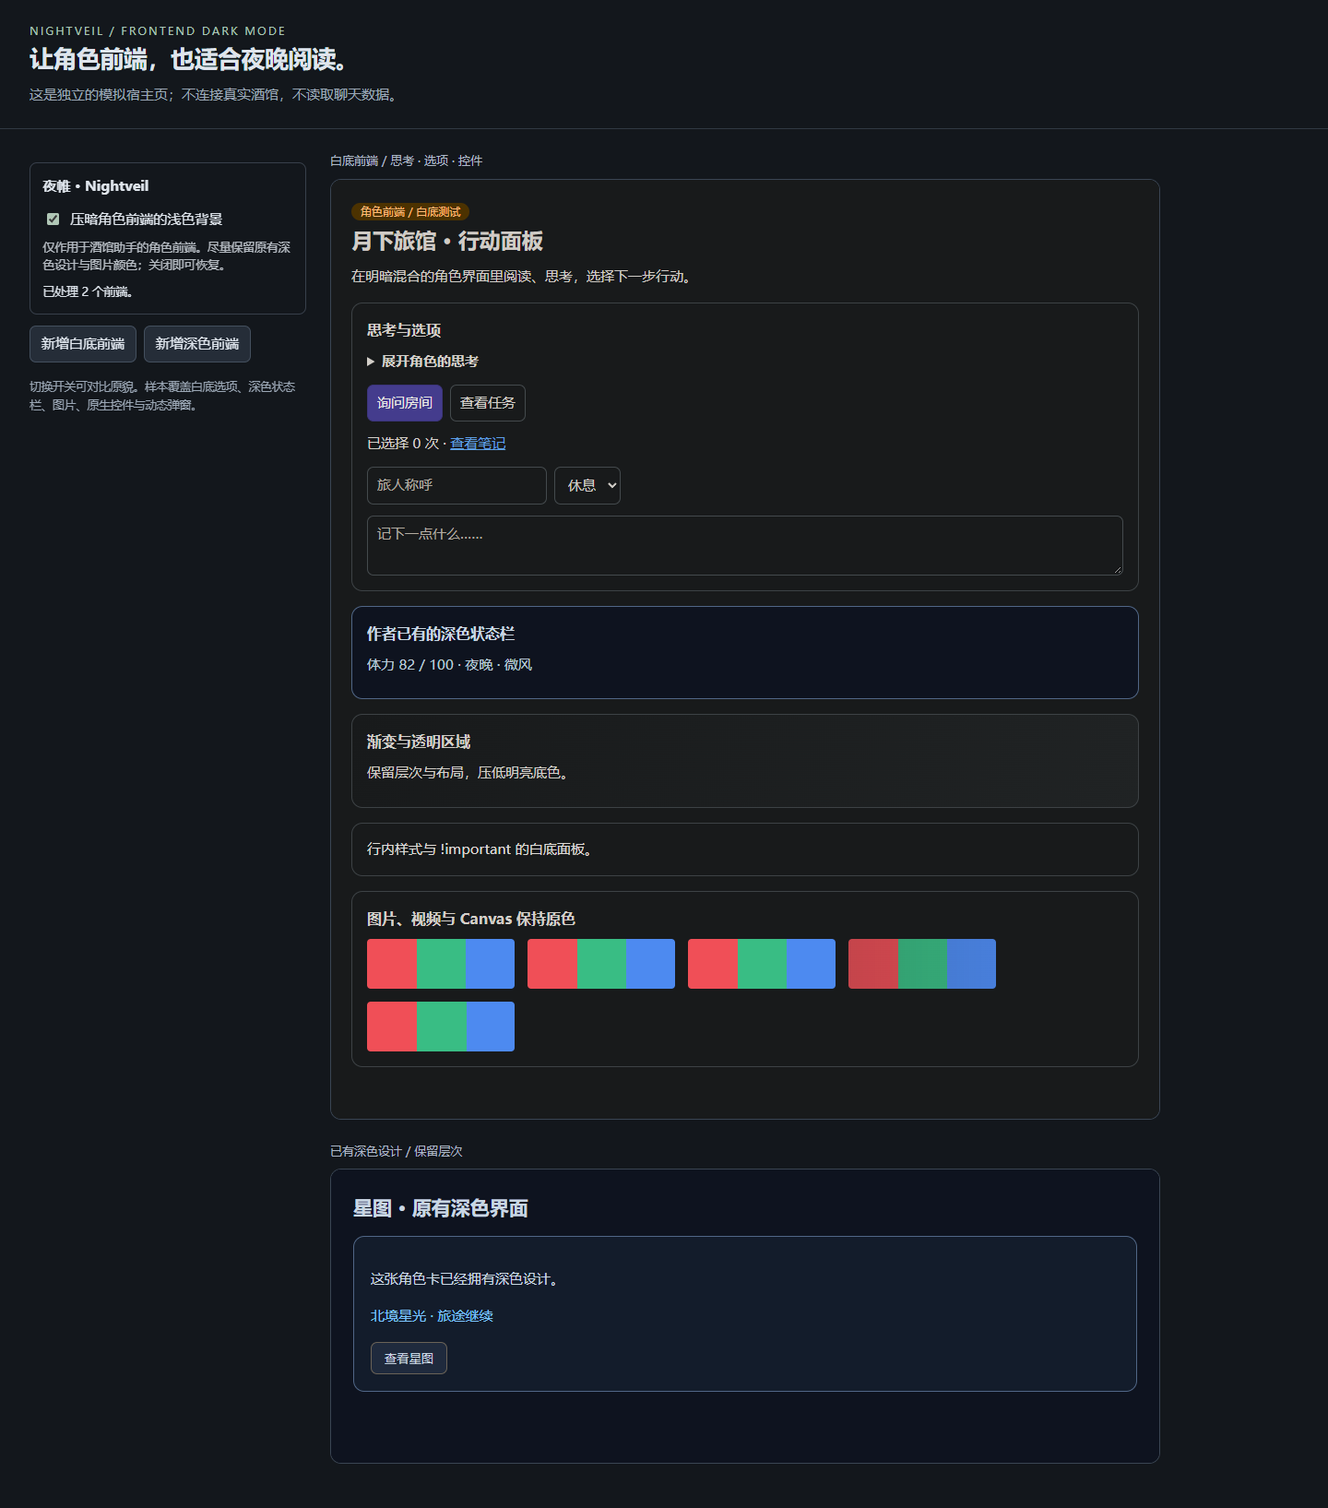
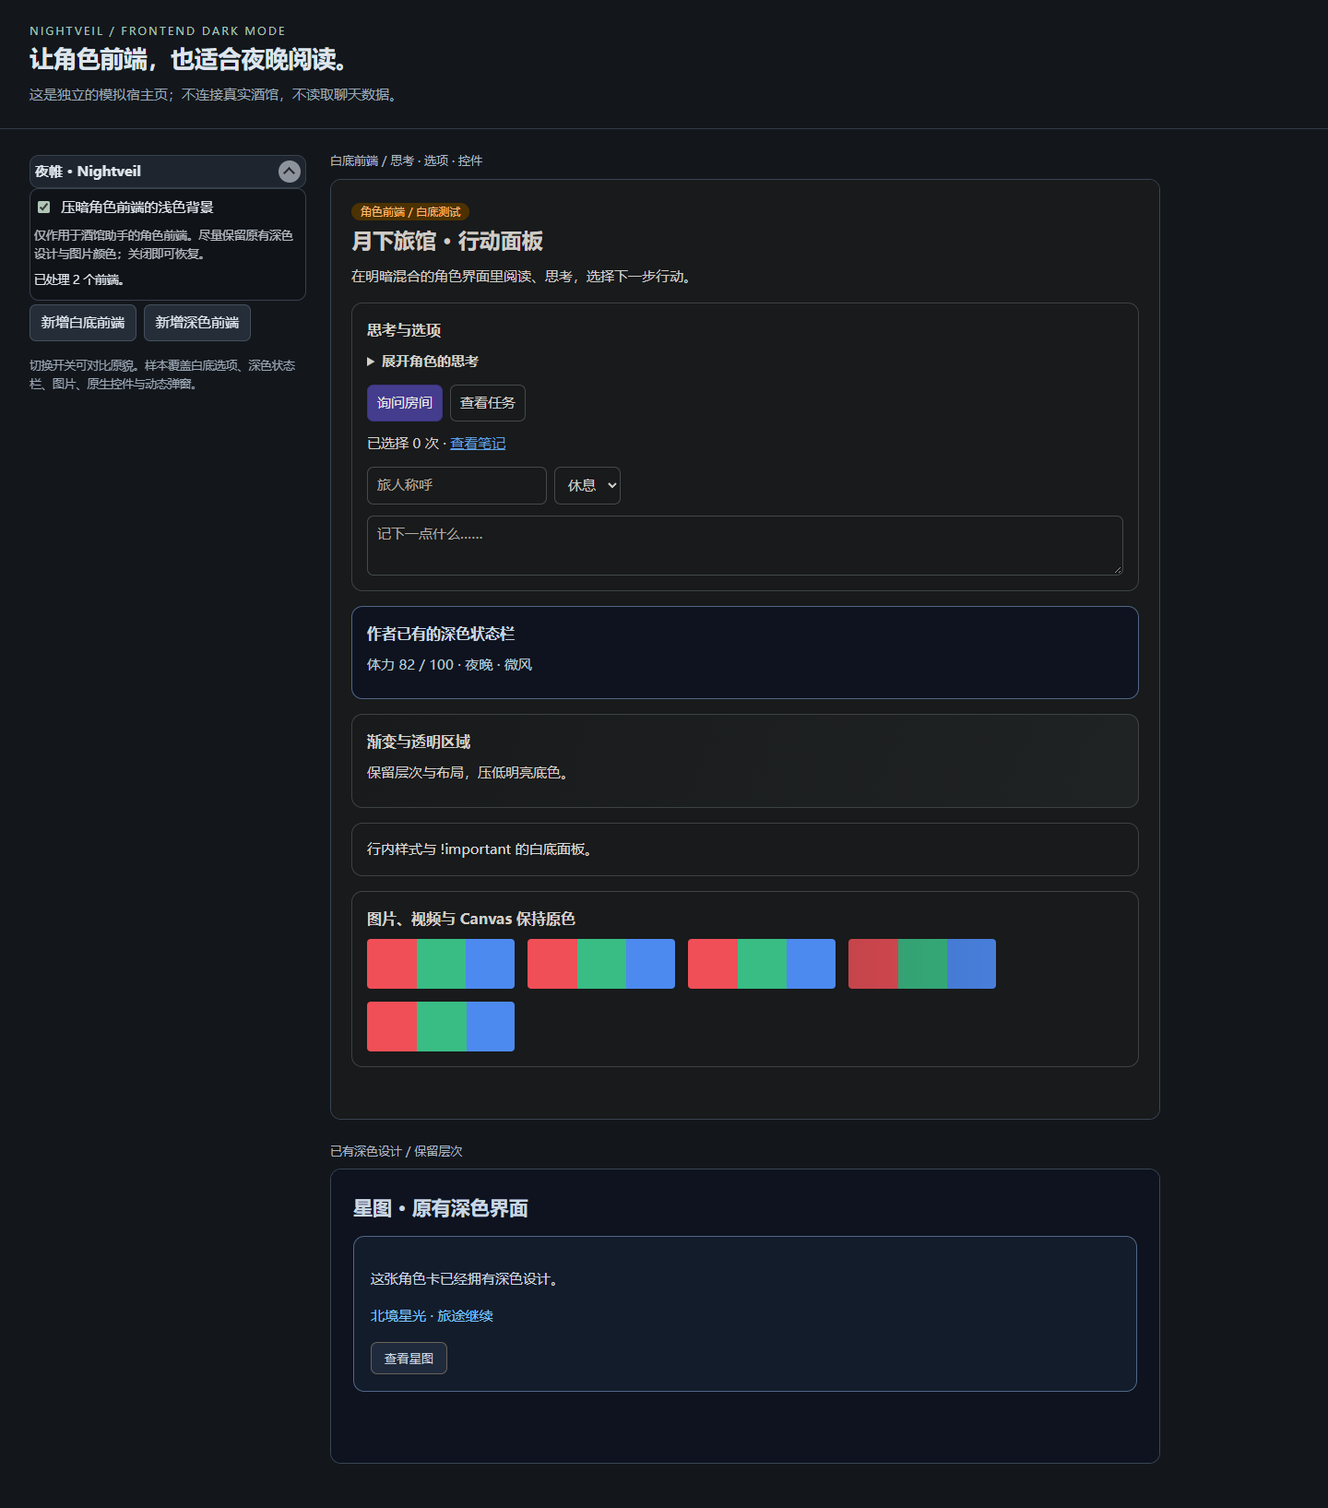
Collapse Nightveil settings by default in 0.1.3

Changed region(s): [[0.0, 0.0936, 0.2188, 0.2807], [0.1875, 0.0936, 0.25, 0.1248]]

diff --git a/tests/browser/extension.spec.js b/tests/browser/extension.spec.js
@@ -4,8 +4,14 @@ async function boot(page, query = '?empty=1') {
     await page.goto('/demo/' + query);
     await page.waitForFunction(() => window.demoReady);
     await page.evaluate(() => window.demoReady);
-    await expect(page.locator('#darksilly-enabled')).toBeVisible();
+    await openSettings(page);
     await expect(page.locator('#darksilly-title')).toHaveText('夜帷 · Nightveil');
+}
+async function openSettings(page) {
+    const panel = page.locator('#darksilly-settings');
+    await expect(panel).toBeVisible();
+    if (!await panel.evaluate(element => element.open)) await panel.locator('summary').click();
+    await expect(page.locator('#darksilly-enabled')).toBeVisible();
 }
 async function add(page, options = {}, kind = 'light') {
     return page.evaluate(({ options, kind }) => window.demo.addCard(kind, options), { options, kind });
@@ -247,6 +253,7 @@ test('settings persist; lifecycle hooks are idempotent and cleanup is scoped', a
     await page.reload();
     await page.waitForFunction(() => window.demoReady);
     await page.evaluate(() => window.demoReady);
+    await openSettings(page);
     await expect(page.locator('#darksilly-enabled')).not.toBeChecked();
     expect(await page.evaluate(() => window.demo.context.extensionSettings.darksilly.futureOption)).toBe('keep');
     const secondId = await add(page);
@@ -515,6 +522,7 @@ test('1.14.0 module loader starts without hooks and preserves the saved toggle a
     await expect(target.locator('style.darkreader, script[data-darksilly-owner]')).toHaveCount(0);
     await page.reload();
     await page.evaluate(() => window.demoReady);
+    await openSettings(page);
     await expect(page.locator('#darksilly-enabled')).not.toBeChecked();
     const nextId = await page.locator('#chat iframe').first().getAttribute('id');
     const next = await ready(page, nextId, '#light-panel');
@@ -557,4 +565,80 @@ test('a modern hook-only import stays inert and an immediate disable cancels act
     await page.evaluate(() => window.extension.onEnable());
     await active(page, 2);
     await expect(page.locator('#darksilly-settings')).toHaveCount(1);
+});
+
+
+for (const host of ['modern', '1.14.0']) {
+    test('settings drawer prevents accidental toggles and starts collapsed on ' + host, async ({ page }, testInfo) => {
+        await page.goto('/demo/?host=' + host);
+        await page.evaluate(() => window.demoReady);
+        await active(page, 2);
+        const panel = page.locator('#darksilly-settings');
+        const header = panel.locator('summary');
+        const checkbox = page.locator('#darksilly-enabled');
+        await expect(panel).toHaveJSProperty('open', false);
+        await expect(header).toBeVisible();
+        await expect(header).toHaveClass(/standoutHeader/);
+        await expect(checkbox).toBeHidden();
+        await expect(checkbox).toBeChecked();
+        await page.evaluate(() => {
+            window.nativeDrawerClicks = 0;
+            document.addEventListener('click', event => {
+                if (event.target.closest('.inline-drawer-toggle')) window.nativeDrawerClicks++;
+            });
+        });
+        const saved = await page.evaluate(() => window.demoSaveCount);
+        await page.screenshot({ path: testInfo.outputPath('settings-collapsed.png'), fullPage: true });
+        await header.click();
+        await expect(panel).toHaveJSProperty('open', true);
+        await expect(checkbox).toBeVisible();
+        await expect(checkbox).toBeChecked();
+        await page.screenshot({ path: testInfo.outputPath('settings-expanded.png'), fullPage: true });
+        await header.click();
+        await expect(checkbox).toBeHidden();
+        expect(await page.evaluate(() => window.nativeDrawerClicks)).toBe(0);
+        expect(await page.evaluate(() => window.demoSaveCount)).toBe(saved);
+        await active(page, 2);
+        await header.click();
+        await checkbox.uncheck();
+        await active(page, 0);
+        await header.click();
+        await header.click();
+        await expect(checkbox).not.toBeChecked();
+        await page.reload();
+        await page.evaluate(() => window.demoReady);
+        await expect(panel).toHaveJSProperty('open', false);
+        await expect(checkbox).toBeHidden();
+        await expect(checkbox).not.toBeChecked();
+        await active(page, 0);
+    });
+}
+
+test('settings drawer supports keyboard navigation on narrow screens', async ({ page }, testInfo) => {
+    await page.setViewportSize({ width: 390, height: 844 });
+    await page.goto('/demo/?empty=1');
+    await page.evaluate(() => window.demoReady);
+    const panel = page.locator('#darksilly-settings');
+    const header = panel.locator('summary');
+    const checkbox = page.locator('#darksilly-enabled');
+    await header.focus();
+    await header.press('Enter');
+    await expect(checkbox).toBeVisible();
+    await page.keyboard.press('Tab');
+    await expect(checkbox).toBeFocused();
+    await page.keyboard.press('Space');
+    await expect(checkbox).not.toBeChecked();
+    const saved = await page.evaluate(() => window.demoSaveCount);
+    await header.focus();
+    await header.press('Space');
+    await expect(panel).toHaveJSProperty('open', false);
+    await expect(checkbox).toBeHidden();
+    expect(await page.evaluate(() => window.demoSaveCount)).toBe(saved);
+    await page.keyboard.press('Tab');
+    await expect(page.locator('#add-light')).toBeFocused();
+    expect(await page.evaluate(() => document.documentElement.scrollWidth <= window.innerWidth)).toBe(true);
+    await page.screenshot({ path: testInfo.outputPath('settings-narrow-collapsed.png'), fullPage: true });
+    await header.click();
+    await expect(checkbox).toBeVisible();
+    await page.screenshot({ path: testInfo.outputPath('settings-narrow-expanded.png'), fullPage: true });
 });

diff --git a/dist/index.js b/dist/index.js
@@ -366,13 +366,23 @@ function createApplication({ document: document2, host, runtimeUrl: runtimeUrl2 
     const container = document2.getElementById("extensions_settings") || document2.getElementById("extensions_settings2");
     if (!container) return;
     if (!panel) {
-      panel = document2.createElement("section");
+      panel = document2.createElement("details");
+      panel.className = "inline-drawer";
       panel.id = "darksilly-settings";
       panel.setAttribute("data-extension-id", EXTENSION_ID);
       panel.setAttribute("aria-labelledby", "darksilly-title");
-      const heading = document2.createElement("h3");
+      const header = document2.createElement("summary");
+      header.className = "inline-drawer-header standoutHeader";
+      const heading = document2.createElement("b");
       heading.id = "darksilly-title";
       heading.textContent = DISPLAY_NAME;
+      const icon = document2.createElement("span");
+      icon.className = "fa-solid fa-circle-chevron-down inline-drawer-icon";
+      icon.setAttribute("aria-hidden", "true");
+      header.append(heading, icon);
+      const content = document2.createElement("div");
+      content.className = "inline-drawer-content";
+      content.id = "darksilly-settings-content";
       const label = document2.createElement("label");
       label.className = "darksilly-toggle";
       checkbox = document2.createElement("input");
@@ -390,7 +400,8 @@ function createApplication({ document: document2, host, runtimeUrl: runtimeUrl2 
       status.id = "darksilly-status";
       status.setAttribute("role", "status");
       status.setAttribute("aria-live", "polite");
-      panel.append(heading, label, help, status);
+      content.append(label, help, status);
+      panel.append(header, content);
     }
     container.append(panel);
     renderStatus();
@@ -429,7 +440,7 @@ function createApplication({ document: document2, host, runtimeUrl: runtimeUrl2 
 }
 
 // src/index.js
-var runtimeUrl = new URL("./frame-runtime.js?v=0.1.2", import.meta.url).href;
+var runtimeUrl = new URL("./frame-runtime.js?v=0.1.3", import.meta.url).href;
 var application = null;
 var startScheduled = false;
 var generation = 0;

diff --git a/src/application.js b/src/application.js
@@ -56,13 +56,25 @@ export function createApplication({ document, host, runtimeUrl }) {
         const container = document.getElementById('extensions_settings') || document.getElementById('extensions_settings2');
         if (!container) return;
         if (!panel) {
-            panel = document.createElement('section');
+            panel = document.createElement('details');
+            panel.className = 'inline-drawer';
             panel.id = 'darksilly-settings';
             panel.setAttribute('data-extension-id', EXTENSION_ID);
             panel.setAttribute('aria-labelledby', 'darksilly-title');
-            const heading = document.createElement('h3');
+            const header = document.createElement('summary');
+            header.className = 'inline-drawer-header standoutHeader';
+            const heading = document.createElement('b');
             heading.id = 'darksilly-title';
             heading.textContent = DISPLAY_NAME;
+            const icon = document.createElement('span');
+            icon.className = 'fa-solid fa-circle-chevron-down inline-drawer-icon';
+            icon.setAttribute('aria-hidden', 'true');
+            header.append(heading, icon);
+            const content = document.createElement('div');
+            content.className = 'inline-drawer-content';
+            content.id = 'darksilly-settings-content';
+            // Native details owns expansion; no inline-drawer-toggle class, so
+            // SillyTavern's delegated drawer handler cannot toggle it a second time.
             const label = document.createElement('label');
             label.className = 'darksilly-toggle';
             checkbox = document.createElement('input');
@@ -80,7 +92,8 @@ export function createApplication({ document, host, runtimeUrl }) {
             status.id = 'darksilly-status';
             status.setAttribute('role', 'status');
             status.setAttribute('aria-live', 'polite');
-            panel.append(heading, label, help, status);
+            content.append(label, help, status);
+            panel.append(header, content);
         }
         container.append(panel);
         renderStatus();

diff --git a/styles.css b/styles.css
@@ -1,14 +1,16 @@
 [data-extension-id="darksilly"] {
-    margin-block: 0.75rem;
-    padding: 0.85rem;
-    border: 1px solid var(--SmartThemeBorderColor, #666);
-    border-radius: 0.5rem;
+    margin-block: 0.25rem;
     color: inherit;
     overflow-wrap: anywhere;
 }
-[data-extension-id="darksilly"] h3 { margin: 0 0 0.7rem; font-size: 1em; }
+[data-extension-id="darksilly"] > summary { list-style: none; cursor: pointer; }
+[data-extension-id="darksilly"] > summary::-webkit-details-marker { display: none; }
+[data-extension-id="darksilly"][open] > summary .inline-drawer-icon { transform: rotate(180deg); }
+[data-extension-id="darksilly"] > .inline-drawer-content { padding: 0.5rem 0.25rem 0.75rem; }
+[data-extension-id="darksilly"][open] > .inline-drawer-content { display: block; }
 [data-extension-id="darksilly"] .darksilly-toggle { display: flex; align-items: center; gap: 0.6rem; cursor: pointer; }
 [data-extension-id="darksilly"] input { flex: 0 0 auto; accent-color: var(--SmartThemeQuoteColor, #a6c9b0); }
-[data-extension-id="darksilly"] input:focus-visible { outline: 2px solid currentColor; outline-offset: 3px; }
+[data-extension-id="darksilly"] input:focus-visible,
+[data-extension-id="darksilly"] > summary:focus-visible { outline: 2px solid currentColor; outline-offset: 3px; }
 [data-extension-id="darksilly"] p { margin: 0.6rem 0 0; line-height: 1.5; font-size: 0.85em; }
 [data-extension-id="darksilly"] .darksilly-help { opacity: 0.8; }

diff --git a/demo/index.html b/demo/index.html
@@ -16,6 +16,13 @@ h1 { margin: 0; font-size: 26px; font-weight: 650; letter-spacing: -0.5px; }
 .layout { display: grid; grid-template-columns: 300px minmax(0, 900px); gap: 26px; padding: 24px 32px; align-items: start; }
 aside { position: sticky; top: 18px; }
 aside small { color: #9ba7b5; display: block; margin-top: 16px; }
+/* Minimal host drawer styles; the real host supplies these and Font Awesome. */
+.inline-drawer-header { display: flex; justify-content: space-between; align-items: center; gap: 8px; padding: 5px 0; cursor: pointer; }
+.inline-drawer-content { display: none; }
+.standoutHeader { padding: 5px; border: 1px solid var(--SmartThemeBorderColor); border-radius: 10px; background: #1e252e; }
+.standoutHeader ~ .inline-drawer-content { border: 1px solid var(--SmartThemeBorderColor); border-radius: 10px; background: #101419; }
+.inline-drawer-icon { display: grid; place-items: center; width: 24px; height: 24px; flex: 0 0 auto; border-radius: 50%; background: #8e939b; }
+.inline-drawer-icon::before { content: ''; width: 7px; height: 7px; border: solid #202630; border-width: 0 2px 2px 0; transform: translateY(-2px) rotate(45deg); }
 .toolbar { display: flex; flex-wrap: wrap; gap: 8px; }
 button { background: #252d38; color: #e0e6ee; font: inherit; border: 1px solid #44505e; border-radius: 7px; padding: 7px 12px; cursor: pointer; }
 .frame-card { margin-bottom: 24px; min-width: 0; }

diff --git a/docs/VALIDATION.md b/docs/VALIDATION.md
@@ -1,6 +1,6 @@
-# 夜帷 · Nightveil 0.1.2 本地模拟验收记录
+# 夜帷 · Nightveil 0.1.3 本地模拟验收记录
 
-日期：2026-11-12（Asia/Shanghai）。本次通过独立模拟宿主验证 1.14.0 的无钩子加载方式，并保留 0.1.1 的图片合成回归及只读诊断记录。**未向真实酒馆安装或启用本修复版，尚无真实角色卡或手机实机验收结果**。
+日期：2026-11-12（Asia/Shanghai）。本次通过独立模拟宿主验证默认收起的设置抽屉、防误触及键盘操作，并保留 1.14.0 加载兼容和图片合成回归。先前的真实页面只读诊断另行记录。**未向真实酒馆安装或启用本修复版，尚无真实角色卡或手机实机验收结果**。
 
 项目已更名为「夜帷 · Nightveil」，npm 项目标识为 `sillytavern-nightveil`。为兼容已有安装，设置、DOM 与 iframe 注册仍保留原 `darksilly` 命名空间。
 
@@ -12,8 +12,8 @@
 | 项目完整性检查 | 通过；清单、导出钩子、本地脚本、MIT 许可及构建适配说明齐全 |
 | 扩展技能提供的清单检查器 | 通过；0 警告、0 错误，无弃用 Extras 字段 |
 | Node 单元测试 | 10 项通过 |
-| Chromium 模拟宿主测试 | 22 项通过 |
-| Firefox 模拟宿主测试 | 22 项通过 |
+| Chromium 模拟宿主测试 | 25 项通过 |
+| Firefox 模拟宿主测试 | 25 项通过 |
 | 桌面与窄屏视觉复查 | 已检查；渐变正确变暗，文字可读，无横向溢出，图片保持原色 |
 
 测试运行环境：Node.js 24.15.0、Playwright 1.65.0、Chrome for Testing 153.0.8010.12、Firefox Nightly 159.0。Chromium 使用本机已有的 Playwright 浏览器；Firefox 使用与 Playwright 匹配的下载版本。这里的浏览器版本不代表插件承诺的最低浏览器版本。
@@ -21,6 +21,9 @@
 执行命令为 `npm test`；因本机使用已有 Chromium，执行前将 `PLAYWRIGHT_CHROMIUM_EXECUTABLE` 指向其绝对路径。完整机器结果位于 `test-results/results.json`，交互式报告位于 `playwright-report/index.html`；后续运行测试会覆盖这些临时文件。稳定摘要保存在 `validation-summary.json`。
 
 ## 关键验收证据
+
+- 新版和 1.14.0 加载器模拟下，设置默认收起但配色按已保存的开关继续运行；展开／收起不切换开关、不触发保存，也不进入宿主的抽屉委托处理。刷新后恢复收起状态并保留启用设置。
+- Enter／空格可操作标题，Tab 可进入展开后的开关；收起后的隐藏开关不进入键盘焦点顺序。390px 窄屏无横向溢出，桌面与窄屏截图已复查。
 
 - 1.14.0 的模块脚本加载器模拟不调用生命周期钩子，仍可启动并处理已有／动态前端；开关即时恢复、刷新保存和禁用后不加载均通过。仅为新版清理钩子导入模块时保持未启动，立即停用也能取消排队的启动。版本源码依据与实际边界见 [COMPATIBILITY.md](COMPATIBILITY.md)。
 
@@ -38,13 +41,14 @@
 
 构建适配的原因与边界见 [DARKREADER-PATCH.md](DARKREADER-PATCH.md)。适配不修改原始 npm 依赖文件，源码锚点变化或适配未接入时构建会失败。
 
-截图稳定性补充：完整回归发现原有混合图片样本的严格 PNG 比较会偶发失败；解码检查的最大差异为单通道 2/255。因此只对该渐变合成样本采用有界像素误差，未放宽普通图片或不透明背景图片的原有严格比较，也未改变配色引擎。修正后该 Chromium 用例连续独立运行 10 次均通过。
+截图稳定性补充：完整回归发现原有混合图片样本的严格 PNG 比较会偶发失败；解码检查的最大差异为单通道 2/255。因此只对该渐变合成样本采用有界像素误差，未放宽普通图片或不透明背景图片的原有严格比较，也未改变配色引擎。0.1.2 修正后该 Chromium 用例连续独立运行 10 次均通过；本次 0.1.3 的完整回归也再次通过。
 
 ## 可查看的截图
 
 - [桌面深色效果](screenshots/desktop-dark.png)
 - [关闭后的原貌](screenshots/desktop-original.png)
 - [390px 窄屏效果](screenshots/mobile-dark.png)
+- [默认收起的设置入口（模拟宿主局部）](screenshots/settings-collapsed.png)
 
 截图均来自模拟宿主，并非真实酒馆截图。桌面视口为 1440×1100，窄屏视口为 390×844，截图使用整页捕获。
 

diff --git a/docs/COMPATIBILITY.md b/docs/COMPATIBILITY.md
@@ -10,6 +10,8 @@
 
 `SillyTavern.getContext()`、`context.extensionSettings`、`context.saveSettingsDebounced()` 及现有设置容器在 1.14.0 中均存在，因此没有引入私有模块导入、设置迁移或另一套持久化机制。清单及能力契约的最低宿主声明一并改为 1.14.0。
 
+0.1.3 的设置区采用默认收起的原生 `details/summary`，沿用宿主的 `inline-drawer-header`、`standoutHeader` 和 `inline-drawer-content` 样式。标题不带 `inline-drawer-toggle`，避免触发宿主的委托点击处理而重复展开；展开状态不写入持久设置，刷新后仍收起，原有启用状态保持不变。
+
 ## 固定源码依据
 
 - **SillyTavern 1.14.0**：tag 对应提交 `9c9be90821ffd6132b40b5f04982522a61d7ad30`。
@@ -18,6 +20,8 @@
   - [公开全局对象](https://github.com/SillyTavern/SillyTavern/blob/9c9be90821ffd6132b40b5f04982522a61d7ad30/public/script.js)：扩展加载前建立 `globalThis.SillyTavern.getContext`。
   - [设置容器](https://github.com/SillyTavern/SillyTavern/blob/9c9be90821ffd6132b40b5f04982522a61d7ad30/public/index.html)：`extensions_settings`、`extensions_settings2`。
 - **原开发基线 SillyTavern 1.19.0**：`7e8663cd9c184a550b37238218bdd32c6efc68e9`；原有生命周期模拟回归继续保留。
+
+设置样式已核对上述两个固定提交的 `public/style.css`；两端均提供 `standoutHeader` 与抽屉标题、内容样式。浏览器原生折叠行为不依赖新增的酒馆 API。
 
 以上均是源码证据，不能替代目标实例中的安装、权限与行为验证。
 
@@ -31,5 +35,5 @@
 
 - 改动前，无钩子的 1.14.0 加载器模拟无法挂载设置面板；改动后在 Chromium、Firefox 均通过。
 - 模拟回归覆盖已有前端、动态前端、开关即时恢复、开关状态刷新保存，以及扩展被禁用时不加载、重新启用后刷新加载。
-- 完整检查：10 项 Node 单元测试与 44 项浏览器测试通过；包括原有新版钩子幂等、清理及混合图片保护回归，并增加仅为清理而导入模块与立即取消启动的回归。
+- 完整检查：10 项 Node 单元测试与 50 项浏览器测试通过；包括原有新版钩子幂等、清理及混合图片保护回归，并增加仅为清理而导入模块与立即取消启动的回归。
 - 仍需在真实 1.14.0 环境核验安装识别、实际设置保存、管理器启停刷新、现用酒馆助手的标识与渲染模式、角色卡交互及手机浏览器表现。未自动安装或修改用户实例。

diff --git a/README.md b/README.md
@@ -4,13 +4,13 @@
 
 - 自动压暗浅色背景、思考选项和弹窗，尽量保留原有深色设计与图片原色。
 - 支持动态内容、srcdoc／Blob 前端及同源嵌套 iframe。
-- 默认开启，可在扩展设置中随时关闭、恢复原貌。
+- 默认启用；设置区默认收起，点击「夜帷 · Nightveil」展开后可关闭、恢复原貌。
 
 [效果预览](docs/screenshots/desktop-dark.png) · [兼容与验收记录](docs/VALIDATION.md)
 
 ## 安装
 
-在 SillyTavern 的「扩展 → 安装扩展」中填入本仓库地址，安装后刷新页面，在扩展设置中找到「夜帷 · Nightveil」。已包含构建产物，使用时无需安装 Node.js 或运行 npm。
+在 SillyTavern 的「扩展 → 安装扩展」中填入本仓库地址，安装后刷新页面，在扩展设置中点击「夜帷 · Nightveil」展开设置。已包含构建产物，使用时无需安装 Node.js 或运行 npm。
 
 手动安装时，将 `manifest.json`、`styles.css`、`dist/` 和 `LICENSE` 放入 `public/scripts/extensions/third-party/sillytavern-nightveil/`，再刷新酒馆。
 
